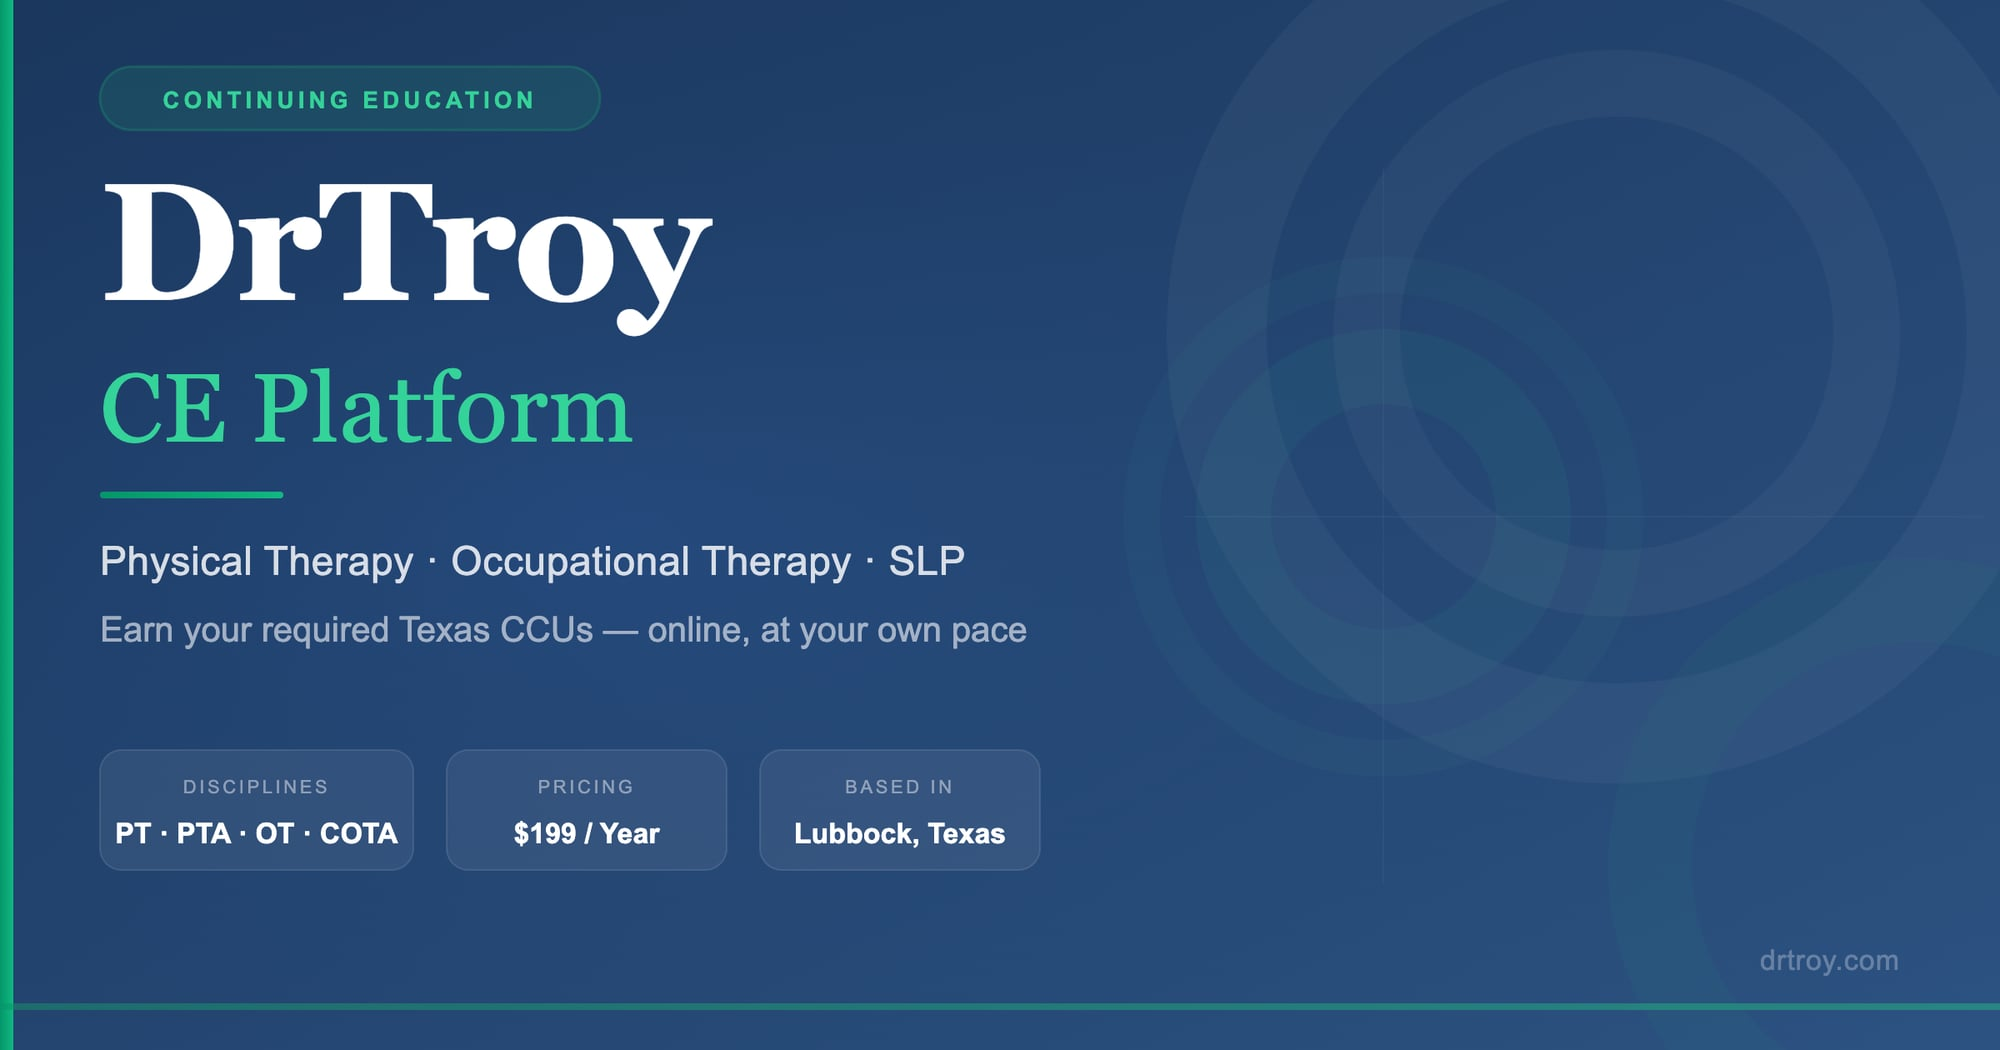
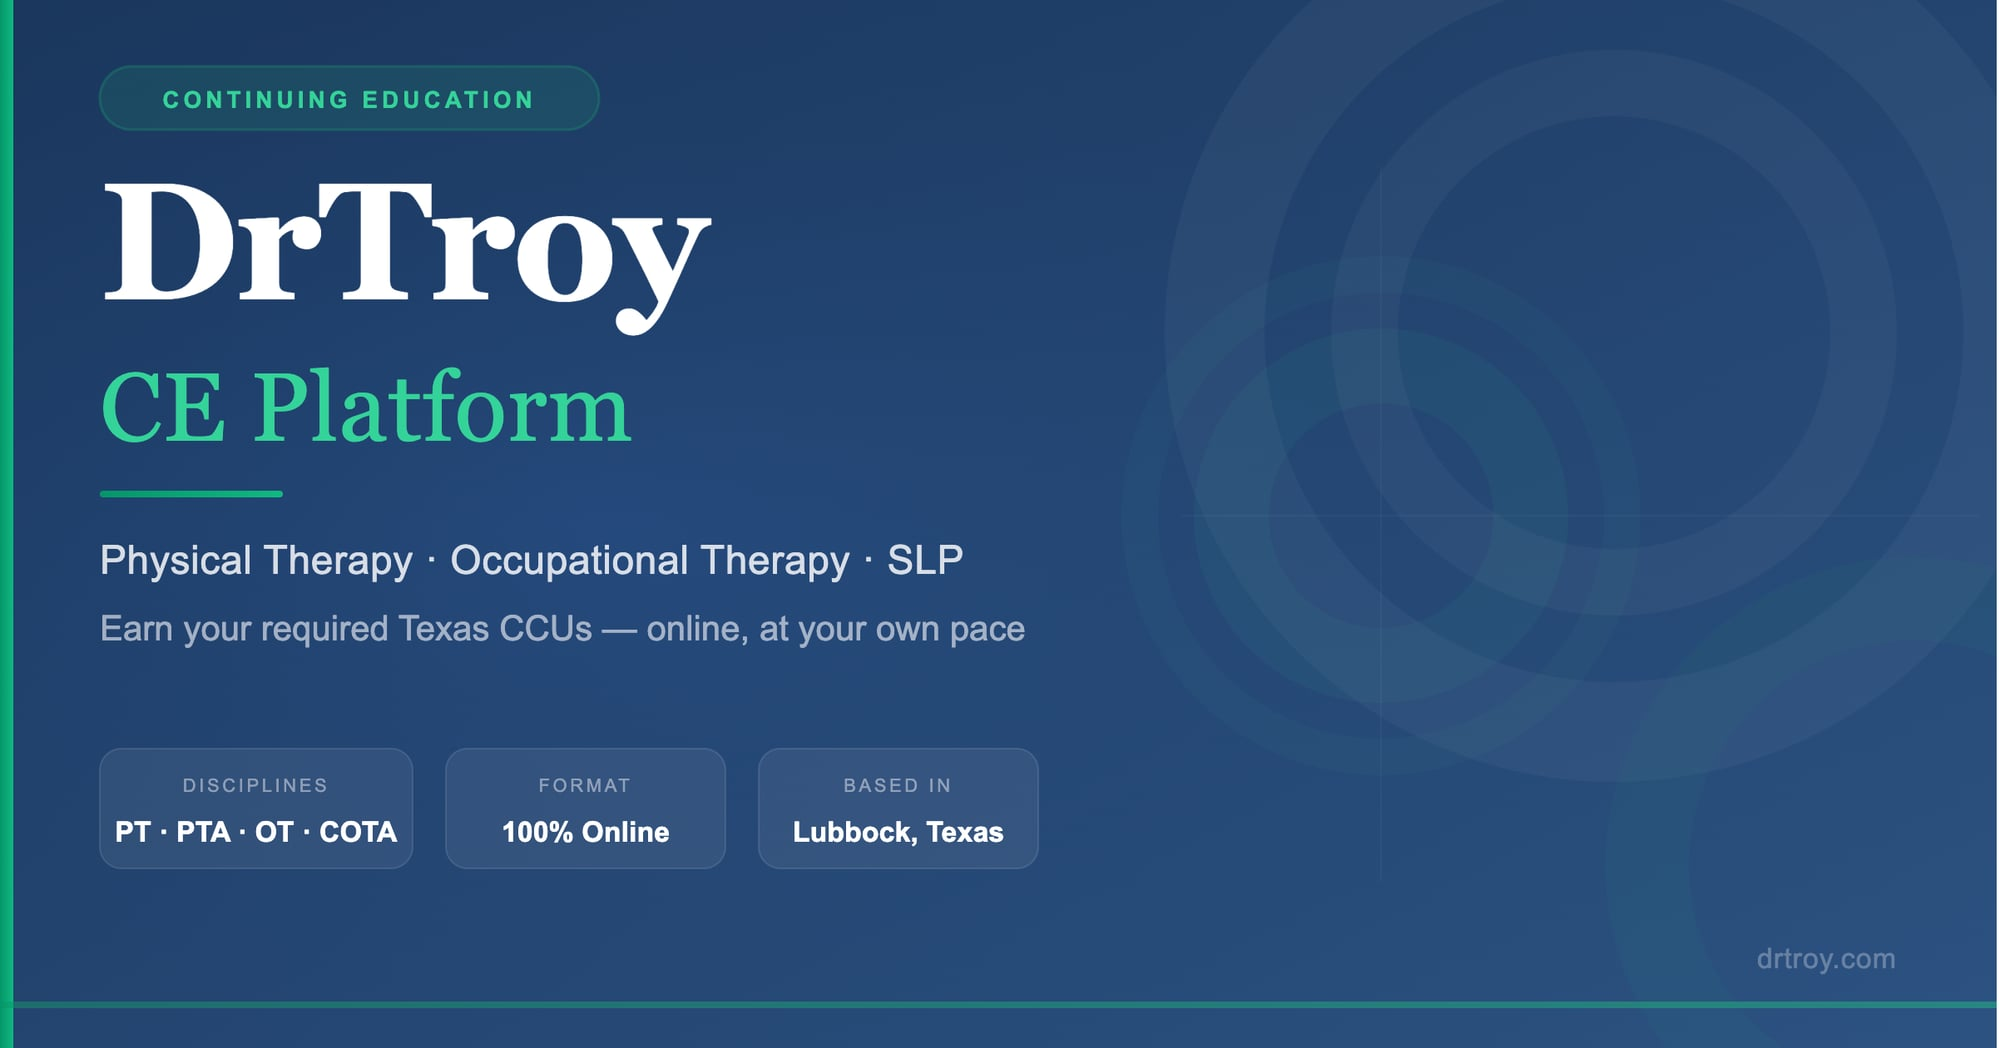
Fix OG preview — remove incorrect $199 pricing, replace with 100% Online badge

diff --git a/home-preview.html b/home-preview.html
@@ -692,14 +692,14 @@
     <meta property="og:type" content="website">
     <meta property="og:url" content="https://drtroy.com/">
     <meta property="og:title" content="DrTroy CE — Continuing Education for PT, OT &amp; SLP">
-    <meta property="og:description" content="Earn your required Texas CCUs online. Discipline-specific packages for PTs, PTAs, OTs, and COTAs — $199/year. Built by practicing clinicians.">
+    <meta property="og:description" content="Earn your required Texas CCUs online. Discipline-specific packages for PTs, PTAs, OTs, and COTAs. Built by practicing clinicians.">
     <meta property="og:image" content="https://drtroy.com/courses/images/og-preview.jpg">
     <meta property="og:image:width" content="1200">
     <meta property="og:image:height" content="630">
     <meta property="og:site_name" content="DrTroy Continuing Education">
     <meta name="twitter:card" content="summary_large_image">
     <meta name="twitter:title" content="DrTroy CE — Continuing Education for PT, OT &amp; SLP">
-    <meta name="twitter:description" content="Earn your required Texas CCUs online. Discipline-specific packages for PTs, PTAs, OTs, and COTAs — $199/year. Built by practicing clinicians.">
+    <meta name="twitter:description" content="Earn your required Texas CCUs online. Discipline-specific packages for PTs, PTAs, OTs, and COTAs. Built by practicing clinicians.">
     <meta name="twitter:image" content="https://drtroy.com/courses/images/og-preview.jpg">
 </head>
 

diff --git a/index.html b/index.html
@@ -334,14 +334,14 @@
     <meta property="og:type" content="website">
     <meta property="og:url" content="https://drtroy.com/">
     <meta property="og:title" content="DrTroy CE — Join the Early Access Waitlist">
-    <meta property="og:description" content="Be first to know when DrTroy Continuing Education launches. CE packages for PT, PTA, OT, and COTA — $199/year.">
+    <meta property="og:description" content="Be first to know when DrTroy Continuing Education launches. CE packages for PT, PTA, OT, and COTA. Texas-based, clinician-built.">
     <meta property="og:image" content="https://drtroy.com/courses/images/og-preview.jpg">
     <meta property="og:image:width" content="1200">
     <meta property="og:image:height" content="630">
     <meta property="og:site_name" content="DrTroy Continuing Education">
     <meta name="twitter:card" content="summary_large_image">
     <meta name="twitter:title" content="DrTroy CE — Join the Early Access Waitlist">
-    <meta name="twitter:description" content="Be first to know when DrTroy Continuing Education launches. CE packages for PT, PTA, OT, and COTA — $199/year.">
+    <meta name="twitter:description" content="Be first to know when DrTroy Continuing Education launches. CE packages for PT, PTA, OT, and COTA. Texas-based, clinician-built.">
     <meta name="twitter:image" content="https://drtroy.com/courses/images/og-preview.jpg">
 </head>
 
